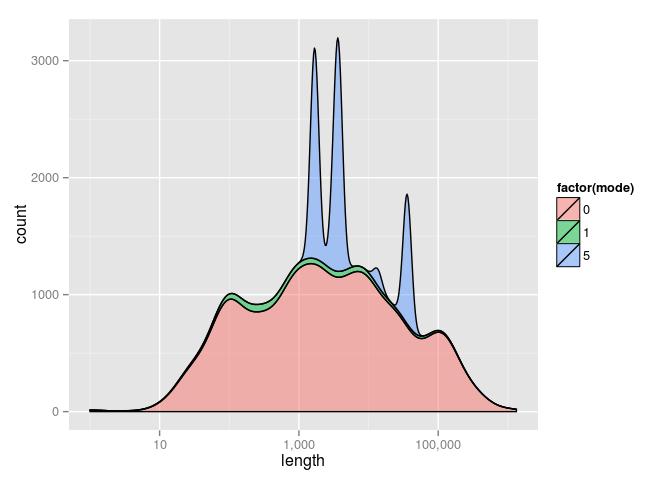
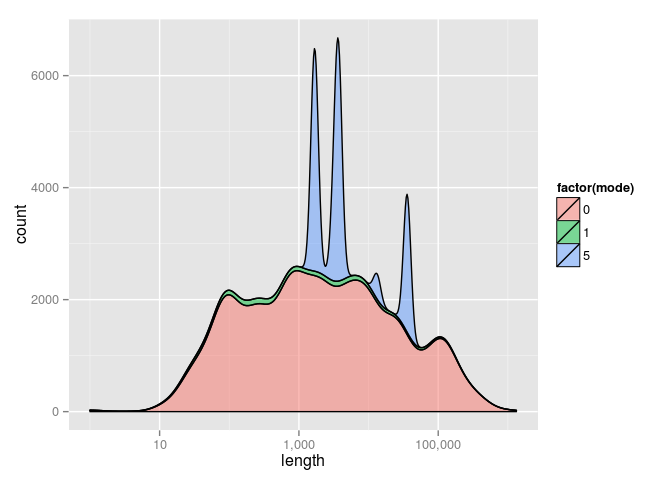
Update cssparser report

diff --git a/map_css_parser_stats.html b/map_css_parser_stats.html
@@ -5,9 +5,10 @@ Use of this source code is governed by a BSD-style license that can be
 found in the LICENSE file.
 -->
 <link rel="import" href="/perf_insights/value/value.html">
+<link rel="import" href="/perf_insights/map_function.html">
 
 <script>
-perf_insights.defineMapFunction(function(results, run_info, model) {
+function cssparser(results, run_info, model) {
   model.iterateAllEvents(function(event) {
     if (event.title == 'CSSParserImpl::parseStyleSheet') {
       var data = {};
@@ -19,8 +20,14 @@ perf_insights.defineMapFunction(function(results, run_info, model) {
       for (var subSlice of event.subSlices) {
         data[subSlice.title] = subSlice.cpuDuration;
       }
-      results.addValue(new perf_insights.v.DictValue(run_info, 'css_parser_stats', data));
+      results.addValue(new pi.v.DictValue(run_info, 'css_parser_stats', data));
     }
   });
+}
+
+tr.exportTo('pie', function() {
+  pi.MapFunction.register(cssparser);
+
+  return {cssparser};
 });
 </script>

diff --git a/cssparser.md b/cssparser.md
@@ -1,8 +1,8 @@
-Based on 4734 observations.
+Based on 9394 observations.
 
-`CSSTokenizer` allocates a vector with space for `length / 3` tokens. 8.24% of the time the allocated vector is too small and needs to be resized.
+`CSSTokenizer` allocates a vector with space for `length / 3` tokens. 8.6% of the time the allocated vector is too small and needs to be resized.
 
-In the cases where more space was allocated than necessary, half the observations saw over-allocation by more than 8960 `CSSParserTokens`. The worst case, <https://leanpub.com/fonts/314471/50F059BA854EE979B.css>, over-allocated by 441426 `CSSParserTokens`.
+In the cases where more space was allocated than necessary, half the observations saw over-allocation by more than 8200 `CSSParserTokens`. The worst case, <https://leanpub.com/fonts/314471/50F059BA854EE979B.css>, over-allocated by 441426 `CSSParserTokens`.
 
 ``` r
 characters_per_token <- cssparser$length / cssparser$tokenCount
@@ -10,9 +10,9 @@ quantile(characters_per_token, c(0.25, 0.75, 0.90, 0.95, 0.99, 1))
 ```
 
     ##         25%         75%         90%         95%         99%        100% 
-    ##    3.481056    5.381703   23.717949  119.857143  217.292768 9120.179487
+    ##    3.463768    5.444008   23.717949  119.857143  119.857143 9120.179487
 
-16.9% of sheets parsed were useragent sheets.
+16.8% of sheets parsed were useragent sheets representing 5.85% of time in the parser.
 
 ``` r
 ua_sheets <- cssparser[cssparser$mode == 5, ]
@@ -20,7 +20,8 @@ characters_per_token <- ua_sheets$length / ua_sheets$tokenCount
 sort(unique(characters_per_token))
 ```
 
-    ## [1]   5.148530   5.583675   9.509225  19.457317  23.717949  67.888889
-    ## [7] 119.857143
+    ##  [1]   3.543981   5.148116   5.148530   5.150697   5.583675   6.048432
+    ##  [7]   6.049354   9.509225  19.457317  20.153846  23.717949  67.888889
+    ## [13] 119.857143
 
 ![](cssparser_files/figure-markdown_github/unnamed-chunk-4-1.png) ![](cssparser_files/figure-markdown_github/unnamed-chunk-4-2.png) ![](cssparser_files/figure-markdown_github/unnamed-chunk-4-3.png) ![](cssparser_files/figure-markdown_github/unnamed-chunk-4-4.png) ![](cssparser_files/figure-markdown_github/unnamed-chunk-4-5.png)
